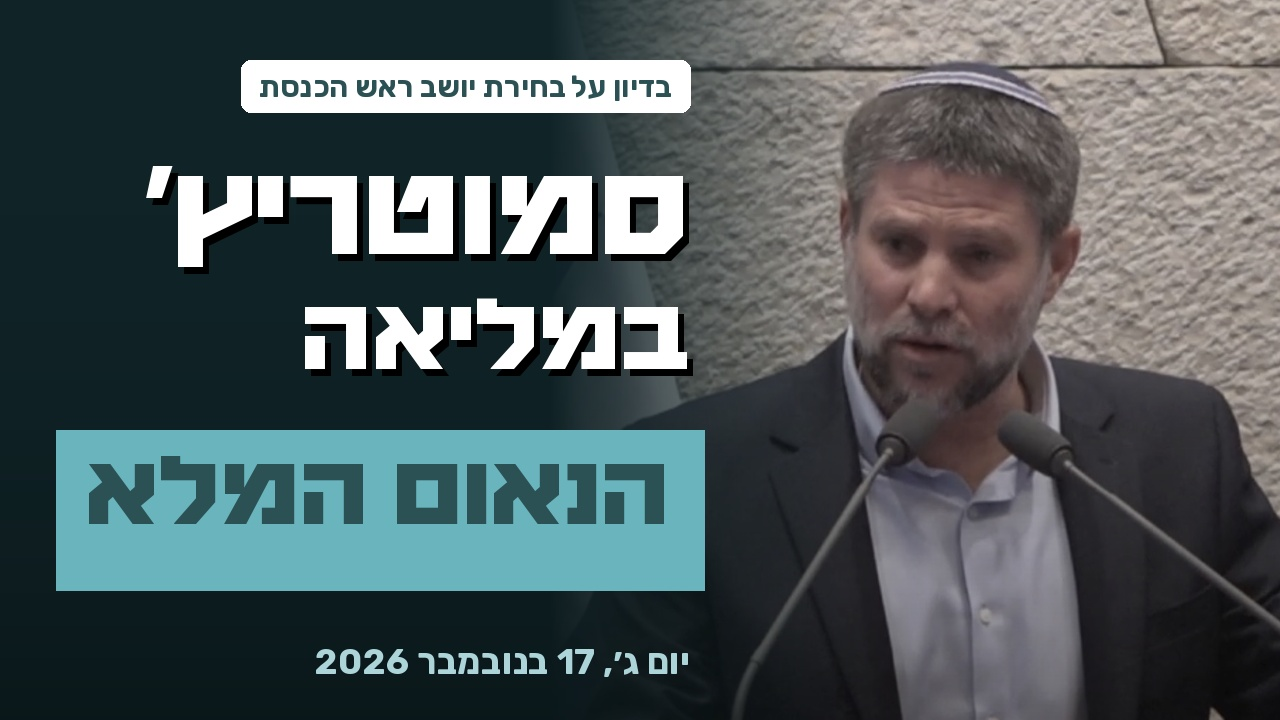
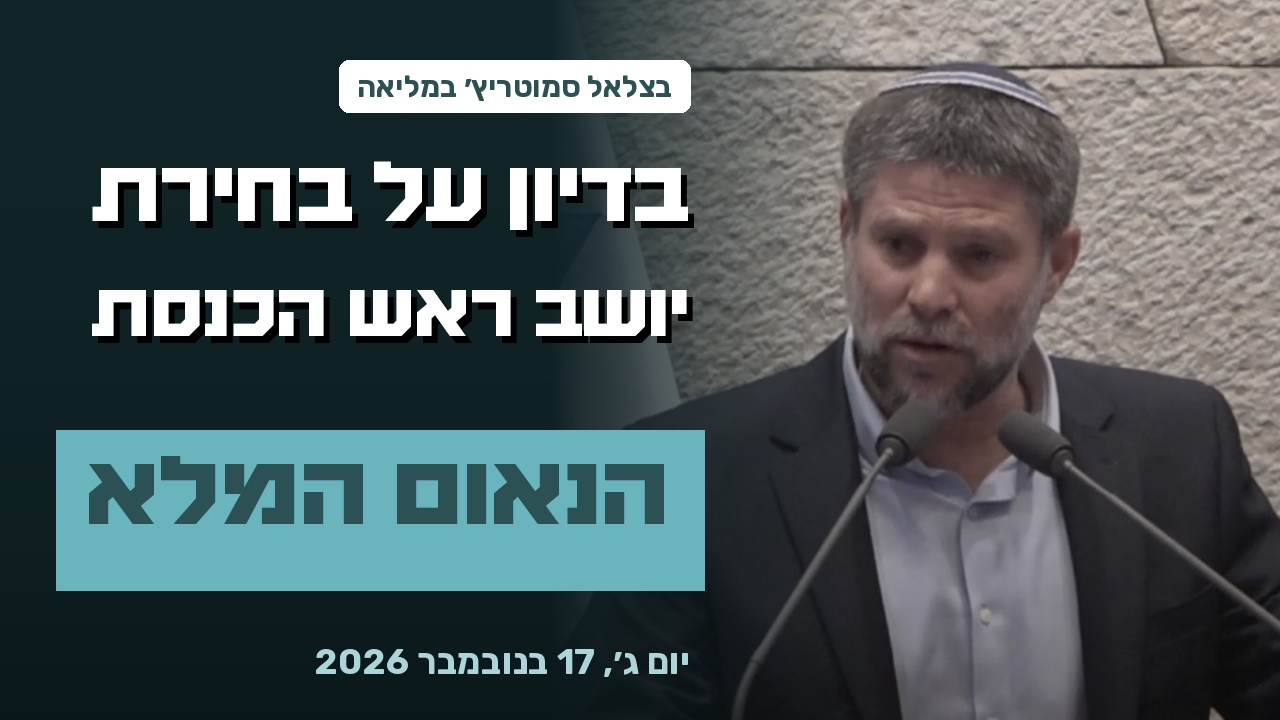
RZ thumb: headline 'בדיון על בחירת יושב ראש הכנסת'
Claude-Session: https://claude.ai/code/session_01RS3QK6pAd3YhyAuXZSJjH1

Changed region(s): [[0.0625, 0.2139, 0.5625, 0.5194], [0.1875, 0.0611, 0.5, 0.1833]]

diff --git a/content-kit/hatzionut-hadatit/2026-11-yt-thumb-speaker-vote/make.py b/content-kit/hatzionut-hadatit/2026-11-yt-thumb-speaker-vote/make.py
@@ -26,13 +26,13 @@ vig = Image.new('RGBA', (W, H), (0, 0, 0, 0)); vd = ImageDraw.Draw(vig)
 for y in range(H): vd.line((0, y, W, y), fill=(0, 0, 0, int(90 * (y / H) ** 2)))
 im.alpha_composite(vig); d = ImageDraw.Draw(im)
 R = 690
-lab = 'בדיון על בחירת יושב ראש הכנסת'; f = F(RUB, 30); tw = d.textlength(lab, font=f, direction='rtl')
+lab = 'בצלאל סמוטריץ׳ במליאה'; f = F(RUB, 30); tw = d.textlength(lab, font=f, direction='rtl')
 d.rounded_rectangle((R - tw - 36, 60, R, 112), 10, fill=(255, 255, 255)); d.text((R - 18, 68), lab, font=f, fill=DEEP, anchor='ra', direction='rtl')
 def head(txt, y, size, fill=(255, 255, 255)):
     f = fit(txt, size, 610)
     d.text((R + 6, y + 7), txt, font=f, fill=(0, 0, 0, 160), anchor='ra', direction='rtl'); d.text((R, y), txt, font=f, fill=fill, anchor='ra', direction='rtl')
-head('סמוטריץ׳', 150, 130)
-head('במליאה', 285, 104)
+head('בדיון על בחירת', 150, 112)
+head('יושב ראש הכנסת', 275, 112)
 t = 'הנאום המלא'; f = fit(t, 132, 600); tw = d.textlength(t, font=f, direction='rtl')
 d.rectangle((R - tw - 50, 430, R + 14, 590), fill=LT); d.text((R - 22, 444), t, font=f, fill=DEEP, anchor='ra', direction='rtl')
 d.text((R, 640), 'יום ג׳, 17 בנובמבר 2026', font=F(RUB, 36), fill=PALE, anchor='ra', direction='rtl')
